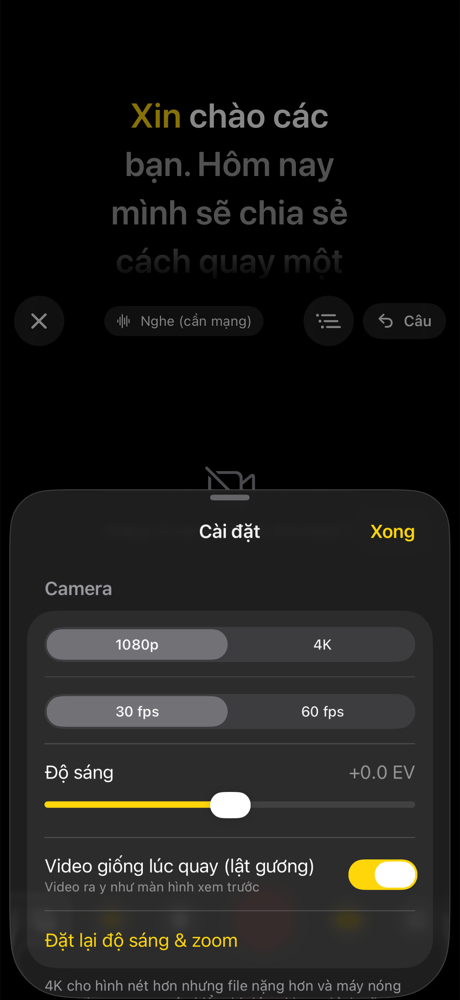
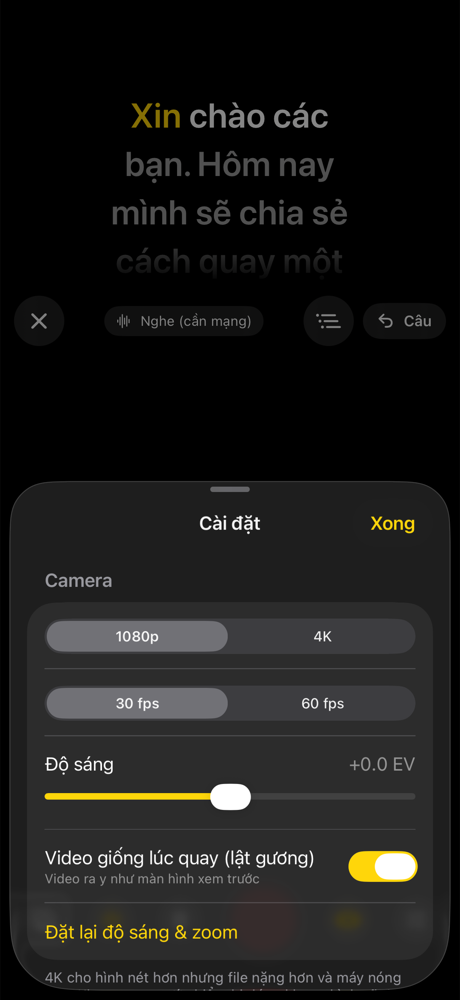
README: UI-only screenshots

diff --git a/EyePrompter/Views/PrompterView.swift b/EyePrompter/Views/PrompterView.swift
@@ -443,7 +443,7 @@ private struct CameraLayer: View {
             Color.black
             if camera.hasCamera {
                 CameraPreview(pipeline: camera, framesMirrored: camera.outputMirrored)
-            } else {
+            } else if !ProcessInfo.processInfo.arguments.contains("-screenshots") {
                 VStack(spacing: 8) {
                     Image(systemName: "video.slash").font(.largeTitle)
                     Text("Không có camera trước (Simulator?)").font(.footnote)

diff --git a/README.md b/README.md
@@ -10,7 +10,7 @@ An iPhone teleprompter that scrolls along with your voice and corrects your gaze
   <img src="docs/screenshots/settings.png" width="19%" alt="Camera settings">
 </p>
 
-<p align="center"><sub>Script editor · Prompter · Outline · Gaze calibration · Camera settings. Captured in the iOS Simulator, which has no front camera, so the camera preview is empty here; on an iPhone it shows your face behind the controls.</sub></p>
+<p align="center"><sub>Script editor · Prompter · Outline · Gaze calibration · Camera settings</sub></p>
 
 ## Features
 
